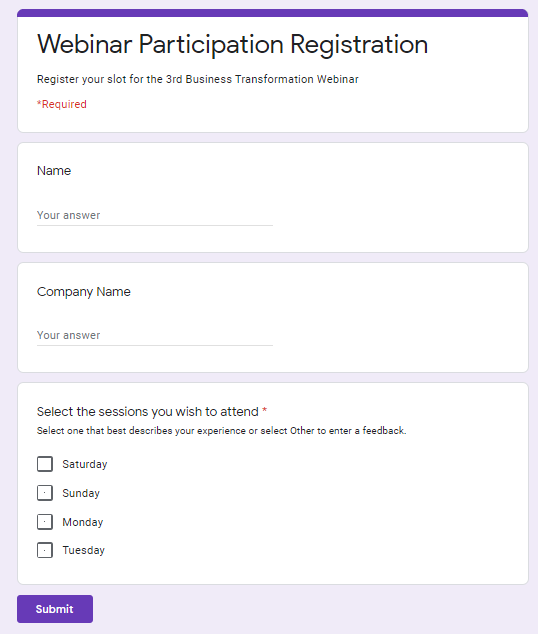
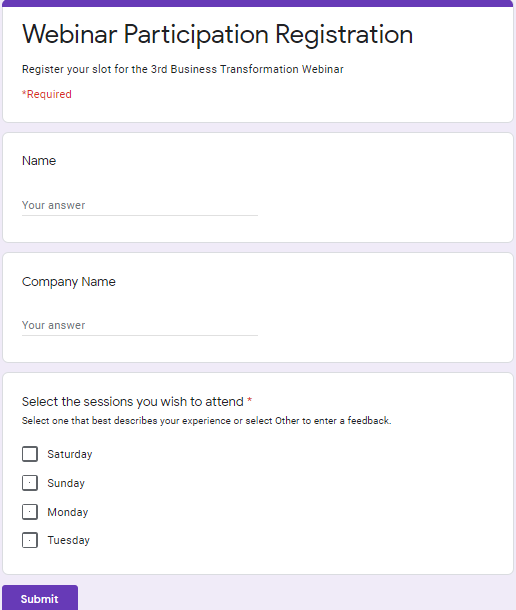
Fixed image not showing in README

diff --git a/README.md b/README.md
@@ -1,7 +1,7 @@
 # Google Form Customizer
 ### Beautify and customize your Google Form with custom HTML and CSS.
-<img src="./examples/sample_vuetify_gform.png" alt="graphicito custom google form service" width="300"/>
-<img src="./examples/sample_vuetify_form.png" alt="graphicito custom google form service" width="300"/>
+<img src="./examples/sample_vuetify_gform.png" alt="graphicito custom google form" width="300"/>
+<img src="./examples/sample_custom_vuetify_form.png" alt="graphicito custom google form" width="300"/>
 ___
 
 ### Install the package
